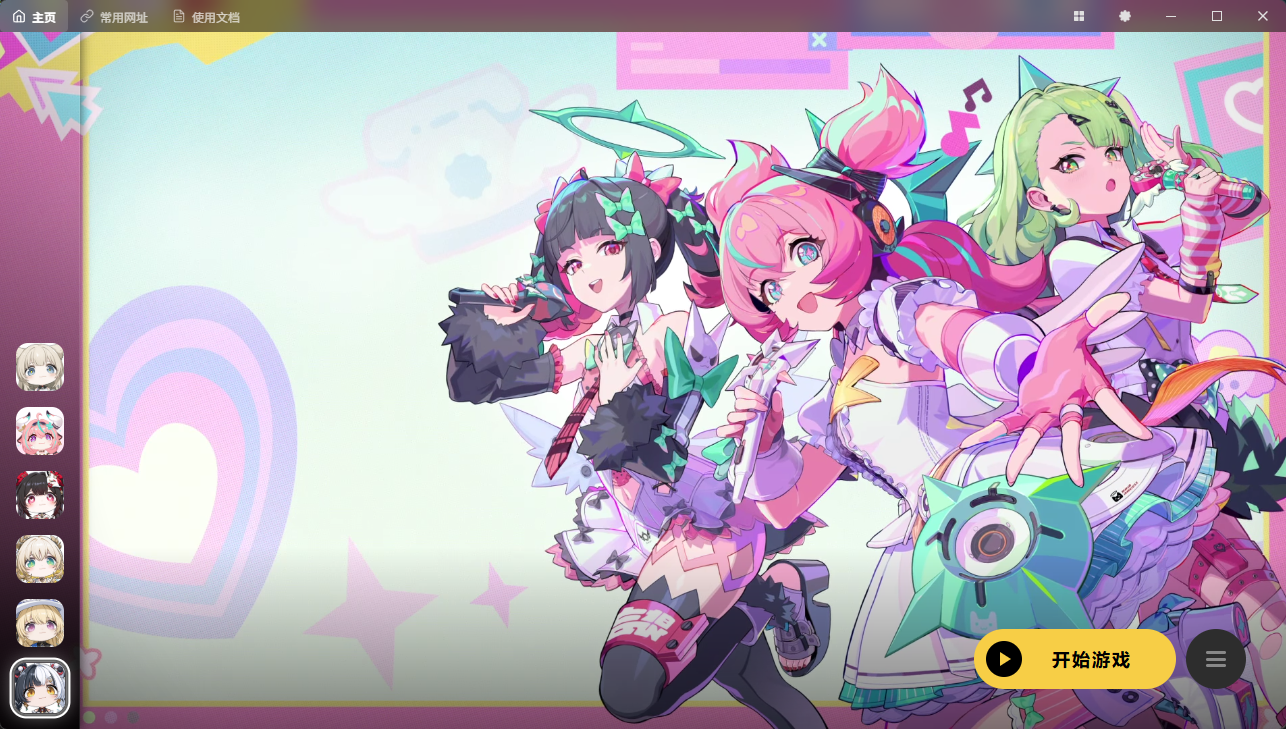
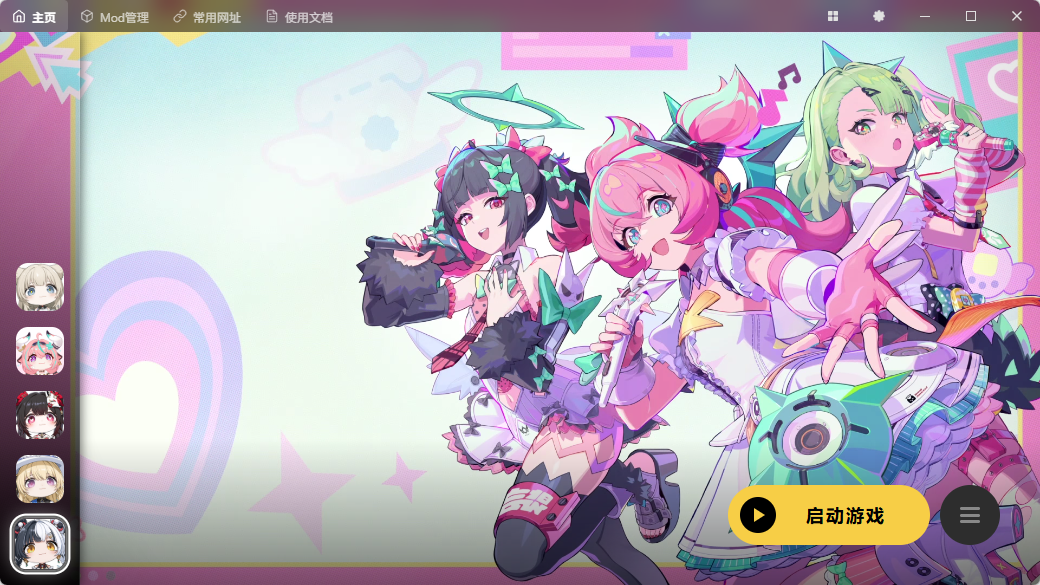
细节完善

diff --git a/src/components/TitleBar.vue b/src/components/TitleBar.vue
@@ -89,14 +89,6 @@ const navTo = (path: string) => {
             <svg xmlns="http://www.w3.org/2000/svg" width="14" height="14" viewBox="0 0 24 24" fill="none" stroke="currentColor" stroke-width="2" stroke-linecap="round" stroke-linejoin="round"><path d="M21 16V8a2 2 0 0 0-1-1.73l-7-4a2 2 0 0 0-2 0l-7 4A2 2 0 0 0 3 8v8a2 2 0 0 0 1 1.73l7 4a2 2 0 0 0 2 0l7-4A2 2 0 0 0 21 16z"></path><polyline points="3.27 6.96 12 12.01 20.73 6.96"></polyline><line x1="12" y1="22.08" x2="12" y2="12"></line></svg>
             <span class="nav-text">Mod管理</span>
         </div>
-        <div v-if="appSettings.showWorkbench" class="nav-button" :class="{ active: route.path === '/workbench' }" @click="navTo('/workbench')" title="工作台">
-            <svg xmlns="http://www.w3.org/2000/svg" width="14" height="14" viewBox="0 0 24 24" fill="none" stroke="currentColor" stroke-width="2" stroke-linecap="round" stroke-linejoin="round"><rect x="2" y="3" width="20" height="14" rx="2" ry="2"></rect><line x1="8" y1="21" x2="16" y2="21"></line><line x1="12" y1="17" x2="12" y2="21"></line></svg>
-            <span class="nav-text">工作台</span>
-        </div>
-        <div v-if="appSettings.showStickers" class="nav-button" :class="{ active: route.path === '/stickers' }" @click="navTo('/stickers')" title="贴图标记">
-            <svg xmlns="http://www.w3.org/2000/svg" width="14" height="14" viewBox="0 0 24 24" fill="none" stroke="currentColor" stroke-width="2" stroke-linecap="round" stroke-linejoin="round"><rect x="3" y="3" width="18" height="18" rx="2" ry="2"></rect><circle cx="8.5" cy="8.5" r="1.5"></circle><polyline points="21 15 16 10 5 21"></polyline></svg>
-            <span class="nav-text">贴图标记</span>
-        </div>
         <div v-if="appSettings.showWebsites" class="nav-button" :class="{ active: route.path === '/websites' }" @click="navTo('/websites')" title="常用网址">
             <svg xmlns="http://www.w3.org/2000/svg" width="14" height="14" viewBox="0 0 24 24" fill="none" stroke="currentColor" stroke-width="2" stroke-linecap="round" stroke-linejoin="round"><path d="M10 13a5 5 0 0 0 7.54.54l3-3a5 5 0 0 0-7.07-7.07l-1.72 1.71"></path><path d="M14 11a5 5 0 0 0-7.54-.54l-3 3a5 5 0 0 0 7.07 7.07l1.71-1.71"></path></svg>
             <span class="nav-text">常用网址</span>

diff --git a/src/views/Settings.vue b/src/views/Settings.vue
@@ -30,9 +30,9 @@ const selectCacheDir = async () => {
       <el-form label-width="140px">
         <el-form-item :label="t('settings.language')">
           <el-select v-model="appSettings.locale" placeholder="Select language" style="width: 200px">
-            <el-option label="English" value="en" />
             <el-option label="简体中文" value="zhs" />
             <el-option label="繁體中文" value="zht" />
+            <el-option label="English" value="en" />
           </el-select>
         </el-form-item>
         <el-form-item label="SSMT缓存文件夹">
@@ -79,12 +79,6 @@ const selectCacheDir = async () => {
       <el-form label-width="140px">
         <el-form-item label="Mod管理页面">
           <el-switch v-model="appSettings.showMods" />
-        </el-form-item>
-        <el-form-item label="工作台页面">
-          <el-switch v-model="appSettings.showWorkbench" />
-        </el-form-item>
-        <el-form-item label="贴图标记页面">
-          <el-switch v-model="appSettings.showStickers" />
         </el-form-item>
         <el-form-item label="常用网址页面">
           <el-switch v-model="appSettings.showWebsites" />

diff --git a/src/store.ts b/src/store.ts
@@ -18,16 +18,12 @@ export interface AppSettings {
   bgType: BGType;
   bgImage: string;
   bgVideo: string;
-  sidebarOpacity: number;
-  sidebarBlur: number;
   contentOpacity: number;
   contentBlur: number;
   cacheDir: string;
   currentConfigName: string;
   githubToken: string;
   showMods: boolean;
-  showWorkbench: boolean;
-  showStickers: boolean;
   showWebsites: boolean;
   showDocuments: boolean;
   locale: Locale;  // 我新增
@@ -46,19 +42,15 @@ const defaultSettings: AppSettings = {
   bgType: BGType.Image,
   bgImage: '',
   bgVideo: '',
-  sidebarOpacity: 0.3,
-  sidebarBlur: 20,
   contentOpacity: 0,
   contentBlur: 0,
   cacheDir: '',
   currentConfigName: 'Default',
   githubToken: '',
   showMods: true,
-  showWorkbench: false,
-  showStickers: false,
   showWebsites: false,
   showDocuments: false,
-  locale: 'en' // 新增
+  locale: 'zhs' // 新增
 }
 
 export const appSettings = reactive<AppSettings>({ ...defaultSettings })

diff --git a/src/router/index.ts b/src/router/index.ts
@@ -1,8 +1,6 @@
 import { createRouter, createWebHistory } from 'vue-router'
 import Home from '../views/Home.vue'
 import GameLibrary from '../views/GameLibrary.vue'
-import Workbench from '../views/Workbench.vue'
-import Stickers from '../views/Stickers.vue'
 import Websites from '../views/Websites.vue'
 import Settings from '../views/Settings.vue'
 import Documents from '../views/Documents.vue'
@@ -12,8 +10,6 @@ const routes = [
   { path: '/', name: 'Home', component: Home },
   { path: '/games', name: 'GameLibrary', component: GameLibrary },
   { path: '/mods', name: 'ModsManagement', component: ModsManagement },
-  { path: '/workbench', name: 'Workbench', component: Workbench },
-  { path: '/stickers', name: 'Stickers', component: Stickers },
   { path: '/websites', name: 'Websites', component: Websites },
   { path: '/settings', name: 'Settings', component: Settings },
   { path: '/documents', name: 'Documents', component: Documents },

diff --git a/src-tauri/src/configs/app_config.rs b/src-tauri/src/configs/app_config.rs
@@ -11,12 +11,12 @@ pub struct AppConfig {
     pub bg_type: BGType,
     pub bg_image: String,
     pub bg_video: String,
-    pub sidebar_opacity: f64,
-    pub sidebar_blur: f64,
+    // Removed sidebar_opacity/blur as they are unused
     pub content_opacity: f64,
     pub content_blur: f64,
     pub cache_dir: String,
     pub current_config_name: String,
+    pub locale: String,
     pub window_width: f64,
     pub window_height: f64,
     #[serde(default)]
@@ -25,10 +25,6 @@ pub struct AppConfig {
     // Page Visibility Settings
     #[serde(default)]
     pub show_mods: bool,
-    #[serde(default)]
-    pub show_workbench: bool,
-    #[serde(default)]
-    pub show_stickers: bool,
     #[serde(default)]
     pub show_websites: bool,
     #[serde(default)]
@@ -41,18 +37,15 @@ impl Default for AppConfig {
             bg_type: BGType::Image,
             bg_image: "".to_string(), 
             bg_video: "".to_string(),
-            sidebar_opacity: 0.3,
-            sidebar_blur: 20.0,
             content_opacity: 0.0,
             content_blur: 0.0,
             cache_dir: "".to_string(),
             current_config_name: "Default".to_string(),
-            window_width: 1000.0,
-            window_height: 600.0,
-            github_token: "".to_string(),            show_mods: true,            show_workbench: false,
-            show_stickers: false,
-            show_websites: false,
-            show_documents: false,
+            locale: "zhs".to_string(),
+            window_width: 1280.0,
+            window_height: 720.0,
+            github_token: "".to_string(),            show_mods: true,            show_websites: true,
+            show_documents: true,
         }
     }
 }

diff --git a/README.md b/README.md
@@ -16,29 +16,14 @@
 
 </div>
 
----
-
-## ⚠ 开发声明
-
-> **开发着玩儿的**
->
-> 这次新版本SSMT4的开发完全是抱着玩儿的心态进行的，所以任何奇怪/奇葩/逆天的设计都有可能出现。
->
-> **本次开发的宗旨是：工具的趣味性、情绪价值和界面美观性 远远大于 其它需求。**
->
-> _追求稳定使用请暂时先使用 SSMT3 + TheHerta3 系列工具，仍在稳定更新维护中。_
+![alt text](image.png)
 
 ---
 
-## 📸 预览
+## 📈 Star History
 
-![Preview](image.png)
+[![Star History Chart](https://api.star-history.com/svg?repos=StarBobis/SSMT4&type=Date)](https://star-history.com/#StarBobis/SSMT4&Date)
 
-## 📚 说明
-
-SSMT4使用文档: [https://starbobis.github.io/SSMT4-Documents/](https://starbobis.github.io/SSMT4-Documents/)
-
----
 
 ## 💖 特别感谢
 
@@ -56,12 +41,4 @@ SSMT4使用文档: [https://starbobis.github.io/SSMT4-Documents/](https://starbo
 
 感谢以上各位大力赞助的 AI Token 米支持！  
 他们的支持让此项目的开发进度大大加快，特别感谢！
-
----
-
-## 📈 Star History
-
-[![Star History Chart](https://api.star-history.com/svg?repos=StarBobis/SSMT4&type=Date)](https://star-history.com/#StarBobis/SSMT4&Date)
-
-
 
